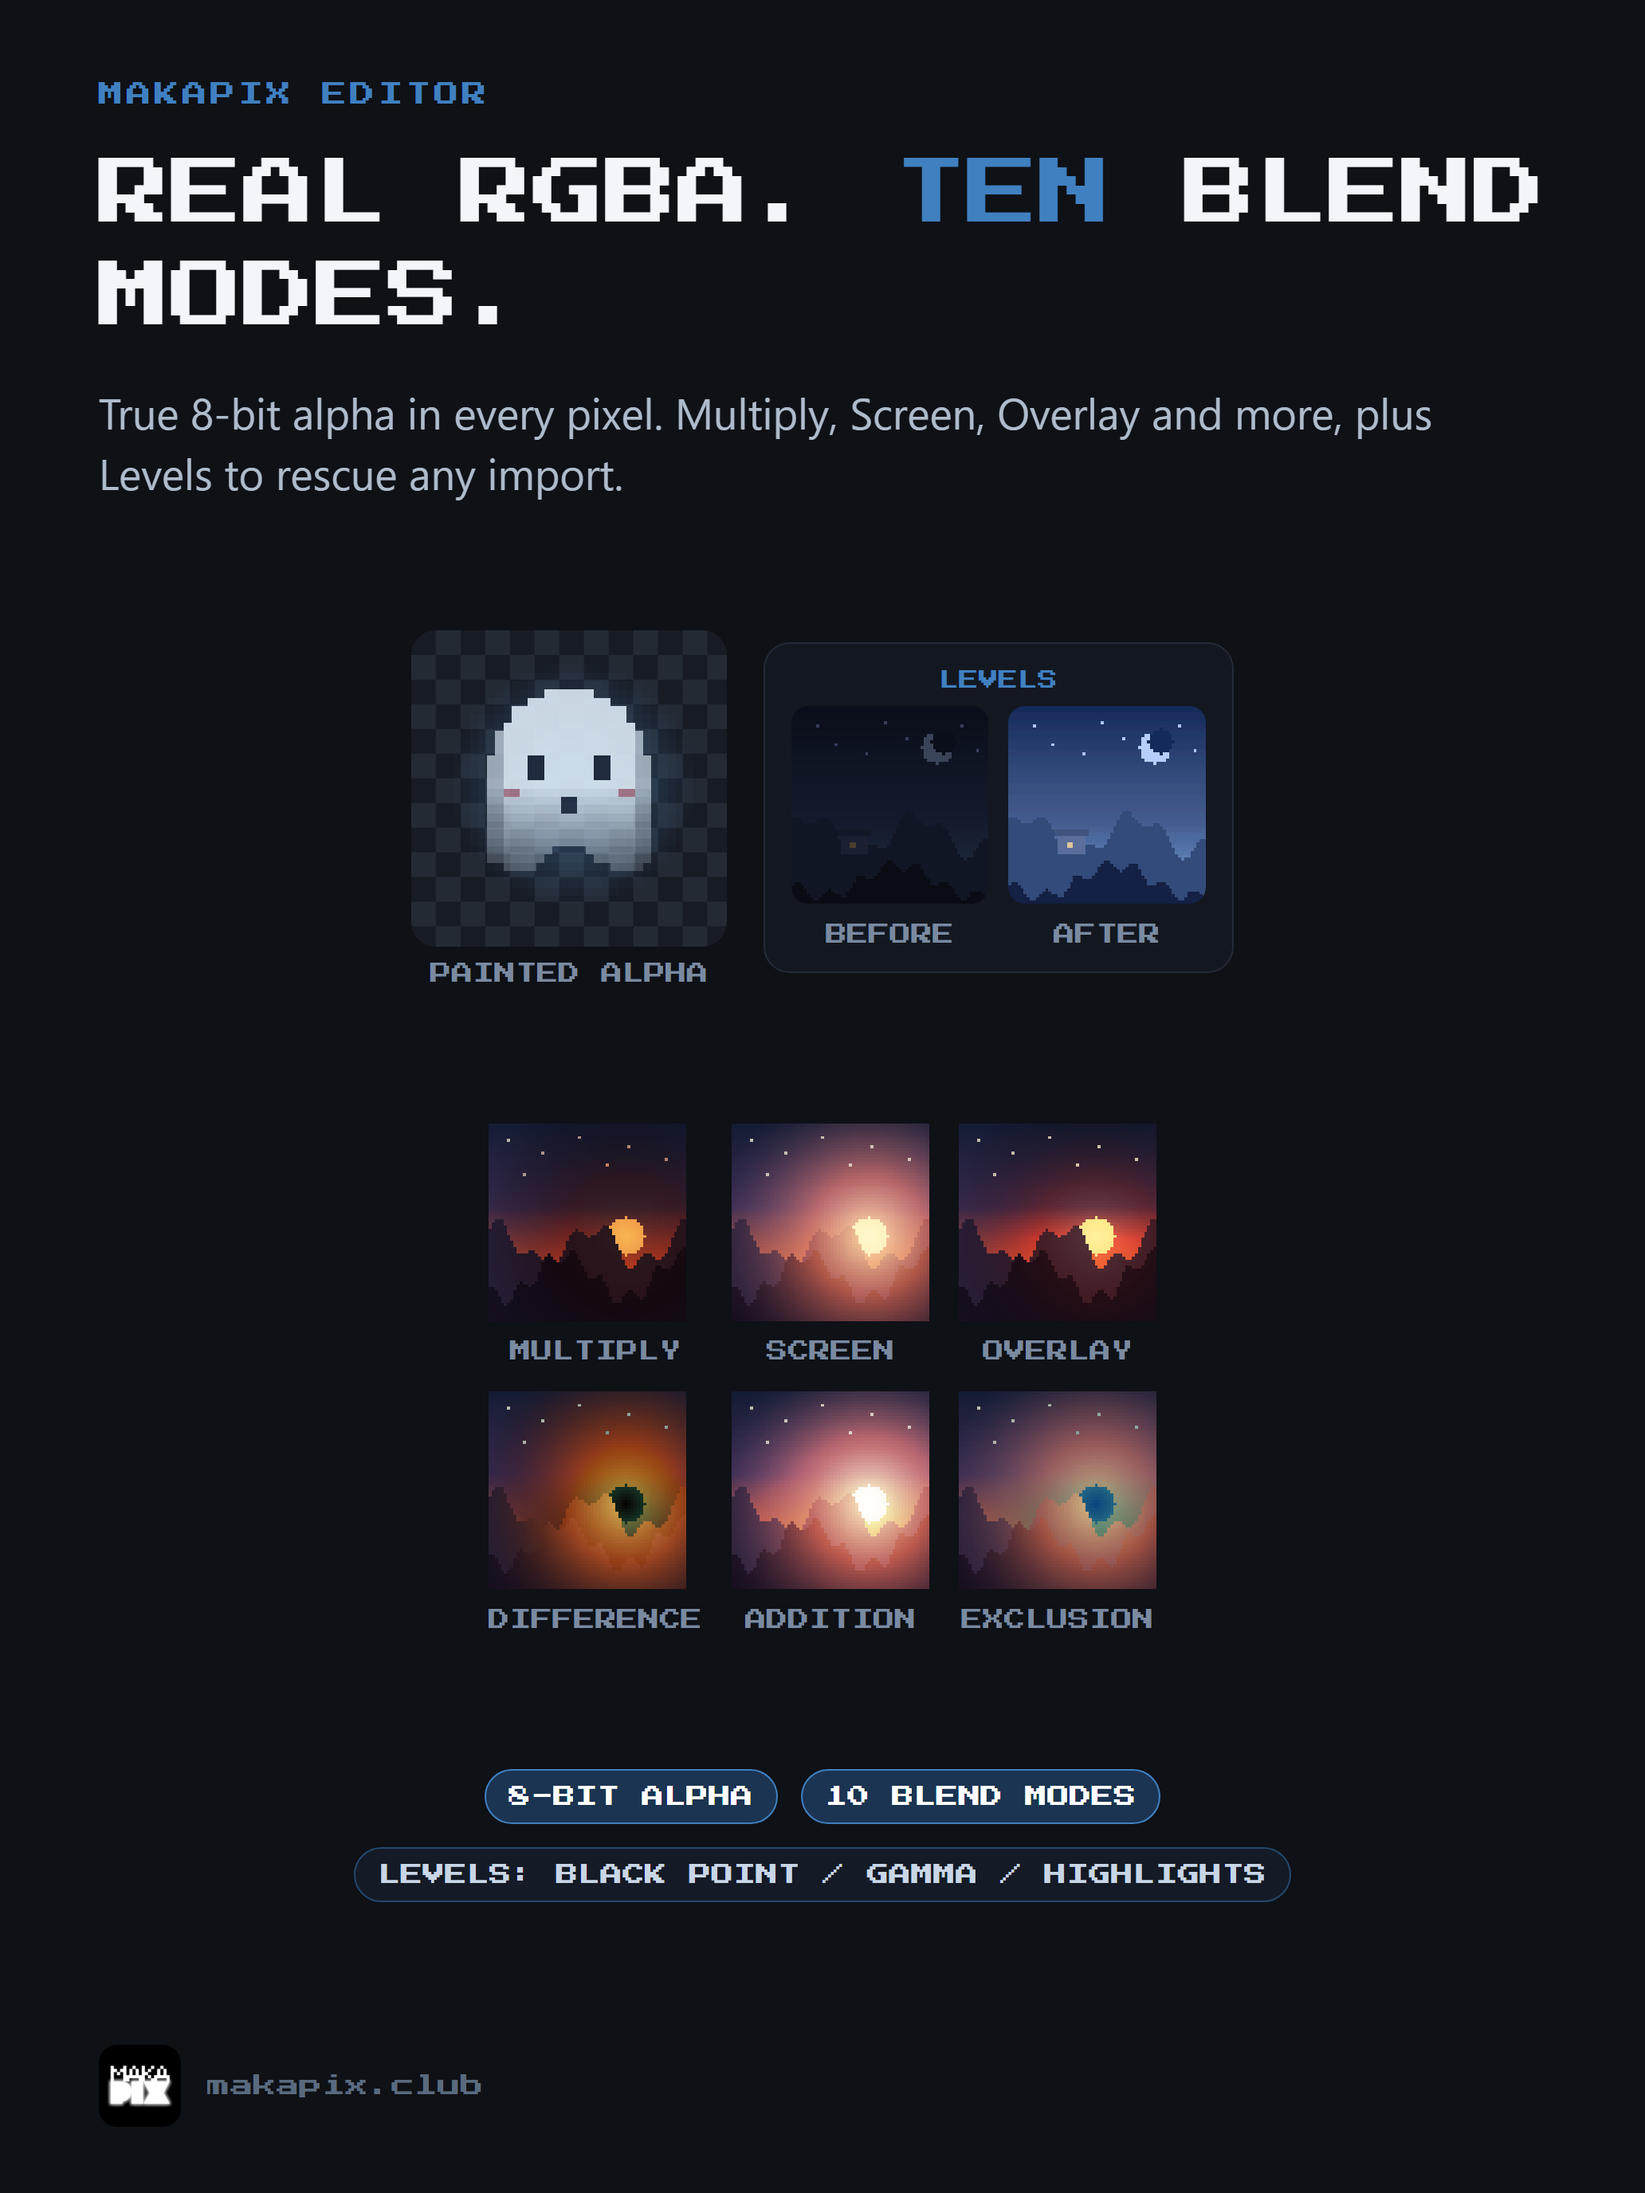
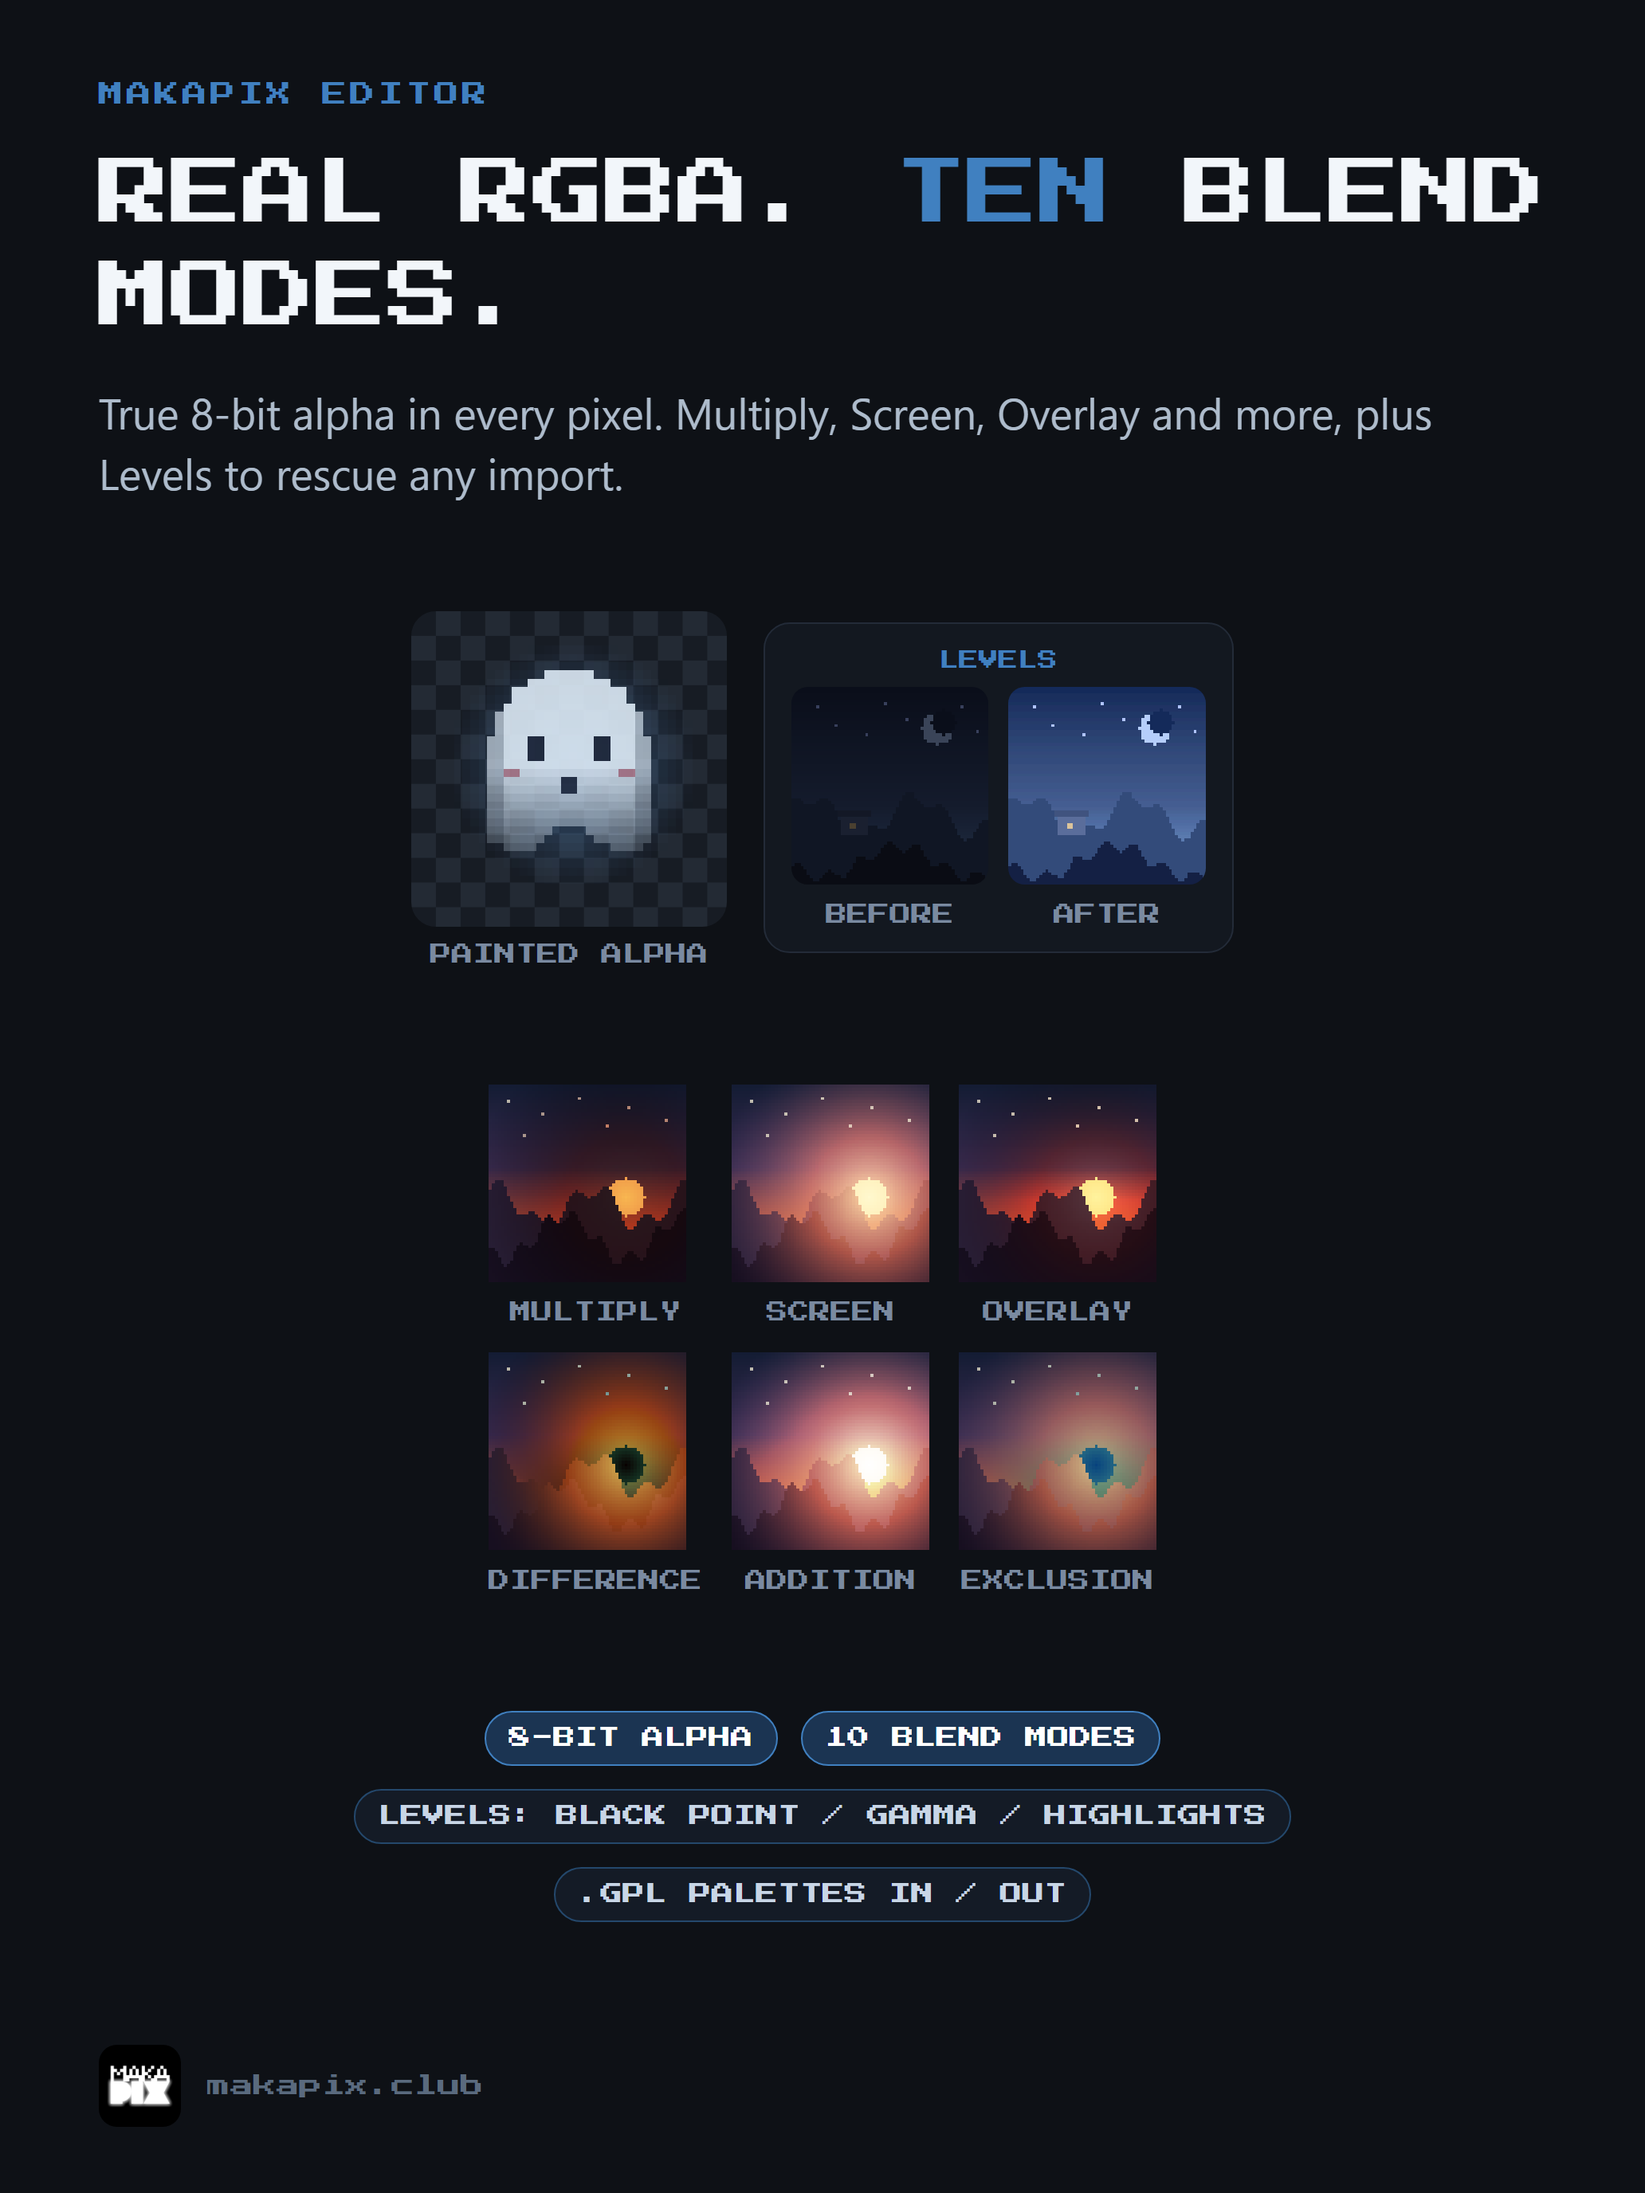
feat(marketing): "Free. Ad-free. Open-source." slide replaces the palette slide
Slot 07 now carries three statement panels ($0 forever, struck-through ADS,
</> open source), the github.com/fabkury/makapix-app repo line, and the
truly-free chip ticker (no ads, no subscriptions, no IAP, draw without an
account, Apache-2.0). Palette coverage lives on as a chip on the color slide.

Claude-Session: https://claude.ai/code/session_01RgnwHE9rH6EY9Mh14eqdks

diff --git a/docs/marketing/src/build.py b/docs/marketing/src/build.py
@@ -455,7 +455,8 @@ def slide_color(orient):
              <div class="caption">AFTER</div></div>
       </div></div>"""
     tick = chips([("8-BIT ALPHA", True), ("10 BLEND MODES", True),
-                  ("LEVELS: BLACK POINT / GAMMA / HIGHLIGHTS", False)])
+                  ("LEVELS: BLACK POINT / GAMMA / HIGHLIGHTS", False),
+                  (".GPL PALETTES IN / OUT", False)])
     if orient == "landscape":
         return f'<div class="row">{ghost}{grid}</div>' + tick
     return f'<div class="row">{ghost}{levels}</div>{grid}' + tick
@@ -491,34 +492,43 @@ def slide_select(orient):
     return canvas + f"<div>{ce}</div>" + tick
 
 
-def slide_palette(orient):
-    data = json.loads((ART / "palette_sort.json").read_text())
-
-    def strip(colors, label):
-        cells = "".join(
-            f'<div style="background:{c[:7]}"></div>' for c in colors)
-        return (f'<div><div class="pstrip">{cells}</div>'
-                f'<div class="caption">{label}</div></div>')
-
-    cols = len(data["shuffled"])
-    sw = {"portrait": 74, "square": 60, "landscape": 46}[orient]
-    strips = f"""
+def slide_free(orient):
+    """Free, ad-free, open-source: three statement panels + the repo line."""
+    pw = {"portrait": 27, "square": 19, "landscape": 14}[orient]
+    tick = chips([("TRULY FREE", True), ("NO ADS", False), ("NO SUBSCRIPTIONS", False),
+                  ("NO IN-APP PURCHASES", False), ("DRAW WITHOUT AN ACCOUNT", False),
+                  ("APACHE-2.0", True)])
+    repo = f"""
+    <div>
+      <div class="tag" style="border-color:#4080C0; text-align:center;">
+        github.com/fabkury/makapix-app</div>
+      <div class="caption">THE APP AND THE SERVER, BUILT IN THE OPEN</div>
+    </div>"""
+    panels = f"""
     <style>
-    .pstrip {{
-      display: grid; grid-template-columns: repeat({cols // 2}, 1fr);
-      width: calc(var(--u) * {sw}); border-radius: calc(var(--u)*0.8); overflow: hidden;
+    .freepanel {{
+      width: calc(var(--u)*{pw}); aspect-ratio: 1 / 1.05;
+      justify-content: center; gap: calc(var(--u)*2.2);
     }}
-    .pstrip div {{ aspect-ratio: 1; }}
+    .bignum {{ font-family:'PS2P'; font-size: calc(var(--u)*{pw * 0.26:.1f}); color:#F2F6FA; }}
+    .strike {{ position:relative; font-family:'PS2P';
+              font-size: calc(var(--u)*{pw * 0.17:.1f}); color:#7A8AA0; }}
+    .strike::after {{ content:''; position:absolute; left:-10%; right:-10%; top:46%;
+              height: calc(var(--u)*0.9); background:#E05050;
+              transform: rotate(-12deg); border-radius: calc(var(--u)*0.5); }}
+    .oss {{ font-family:'PS2P'; font-size: calc(var(--u)*{pw * 0.2:.1f}); color:#4080C0; }}
     </style>
-    {strip(data['shuffled'], 'IMPORTED: ANY ORDER')}
-    {strip(data['sorted'], 'ONE TAP: SORTED BY SIMILARITY')}"""
-    tick = chips([(".GPL IN / OUT", True), ("SORT BY SIMILARITY", False),
-                  ("NAMED COLORS", False), ("PRESET LIBRARIES", False)])
-    phone = ""
-    if orient == "portrait":
-        phone = (f'<div class="phone" style="width: calc(var(--u)*44);">'
-                 f'<img src="{art("crops/palette_top.png")}"></div>')
-    return strips + phone + tick
+    <div class="row" style="align-items: stretch;">
+      <div class="panel freepanel"><span class="bignum">$0</span>
+        <div class="plabel">FOREVER</div></div>
+      <div class="panel freepanel"><span class="strike">ADS</span>
+        <div class="plabel">ZERO. EVER.</div></div>
+      <div class="panel freepanel"><span class="oss">&lt;/&gt;</span>
+        <div class="plabel"><span class="a">OPEN</span> SOURCE</div></div>
+    </div>"""
+    if orient == "landscape":
+        return panels + tick
+    return panels + repo + tick
 
 
 def slide_club(orient):
@@ -608,10 +618,10 @@ SLIDES = {
                'SELECT IT. SPIN IT.<br><span class="a">NO JAGGIES</span>.',
                "Rect, oval, and lasso with add, subtract, and intersect. cleanEdge rotation keeps pixel art crisp.",
                slide_select),
-    "palette": ("MAKAPIX EDITOR",
-                'PALETTES THAT <span class="a">TRAVEL</span>.',
-                "Import and export .gpl files, sort any palette by similarity, and name every color.",
-                slide_palette),
+    "free": ("MAKAPIX CLUB",
+             'FREE. AD-FREE.<br><span class="a">OPEN-SOURCE.</span>',
+             "No ads, no subscriptions, no unlocks. The whole platform is open-source: the app and the server.",
+             slide_free),
     "club": ("MAKAPIX CLUB",
              'DRAW IT.<br>ANIMATE IT.<br><span class="a">SHARE IT.</span>',
              "Publish to the Makapix Club, react and comment, remix with public lineage. Free on Android and iOS.",
@@ -623,7 +633,7 @@ SLIDES = {
 }
 
 ORDER = ["hero", "replay", "animation", "paint", "color",
-         "select", "palette", "club", "files"]
+         "select", "free", "club", "files"]
 PLAY_MAX = 8  # the Play listing caps at 8 screenshots; 09_files is App Store only
 
 

diff --git a/docs/marketing/README.md b/docs/marketing/README.md
@@ -35,7 +35,9 @@ proof panel, chip ticker), community art credited `@handle` on-slide.
    (all engine renders) + the real AA-chip tool row
 5. **Color** — RGBA ghost on checker + blend-mode grid + Levels before/after
 6. **Select** — selection canvas + mode row + cleanEdge vs nearest zoom
-7. **Palette** — import/sort strips + the palette page
+7. **Free** — "Free. Ad-free. Open-source." (three statement panels + the GitHub
+   repo line; replaced the palette slide 2026-08-31 by user decision — palette
+   coverage lives on as a chip on the color slide)
 8. **Club** — credited community grid + the Recommended feed (finale)
 9. **Files** (App Store only) — import/export format flow
 
